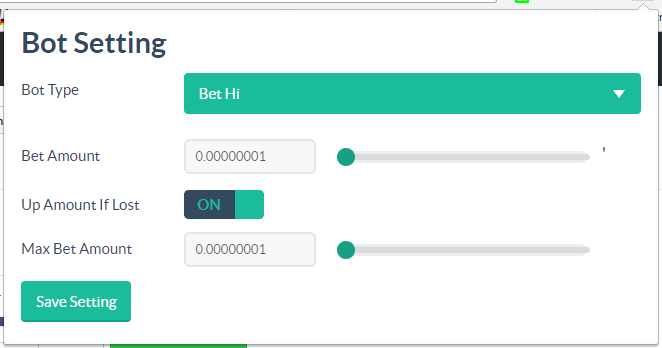
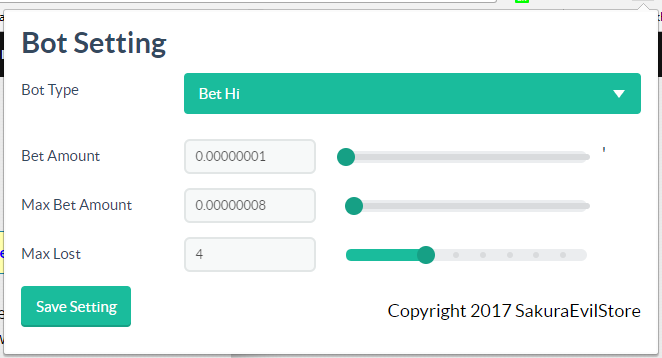
Update Infomation in ReadMe

diff --git a/popup.html b/popup.html
@@ -32,7 +32,7 @@
                     <select class="form-control select select-primary select-block mbl" id="auto-type" name="auto-type">
                      <option value="0">Bet Hi</option>
                      <option value="1">Bet Lo</option>
-                     <option value="2">Smart Bet</option>
+                     <option value="2">Change Bet If Lost Many Times</option>
                   </select>
                 </div>
             </div>

diff --git a/README.md b/README.md
@@ -1,4 +1,15 @@
-# BotFreeBitco
-Bot Manual Bet
-
+BotFreeBitco
+========
+Setting Srceen:
 ![alt text](https://raw.githubusercontent.com/SakuraEvilStore/BotFreeBitco/master/img/srceen.PNG)
+
+Auto Srceen:
+![alt text](https://raw.githubusercontent.com/SakuraEvilStore/BotFreeBitco/master/img/auto_srceen.PNG)
+
+New features:
+- Auto Play Manual Bet with mode Bet Hi
+- Auto Play Manual Bet with mode Bet Lo
+- Auto Play Manual Bet with mode Change Bet If Lost Many Times
+
+Thanks to:
+- [Custom-JavaScript-for-Websites-2](https://github.com/xcv58/Custom-JavaScript-for-Websites-2)
